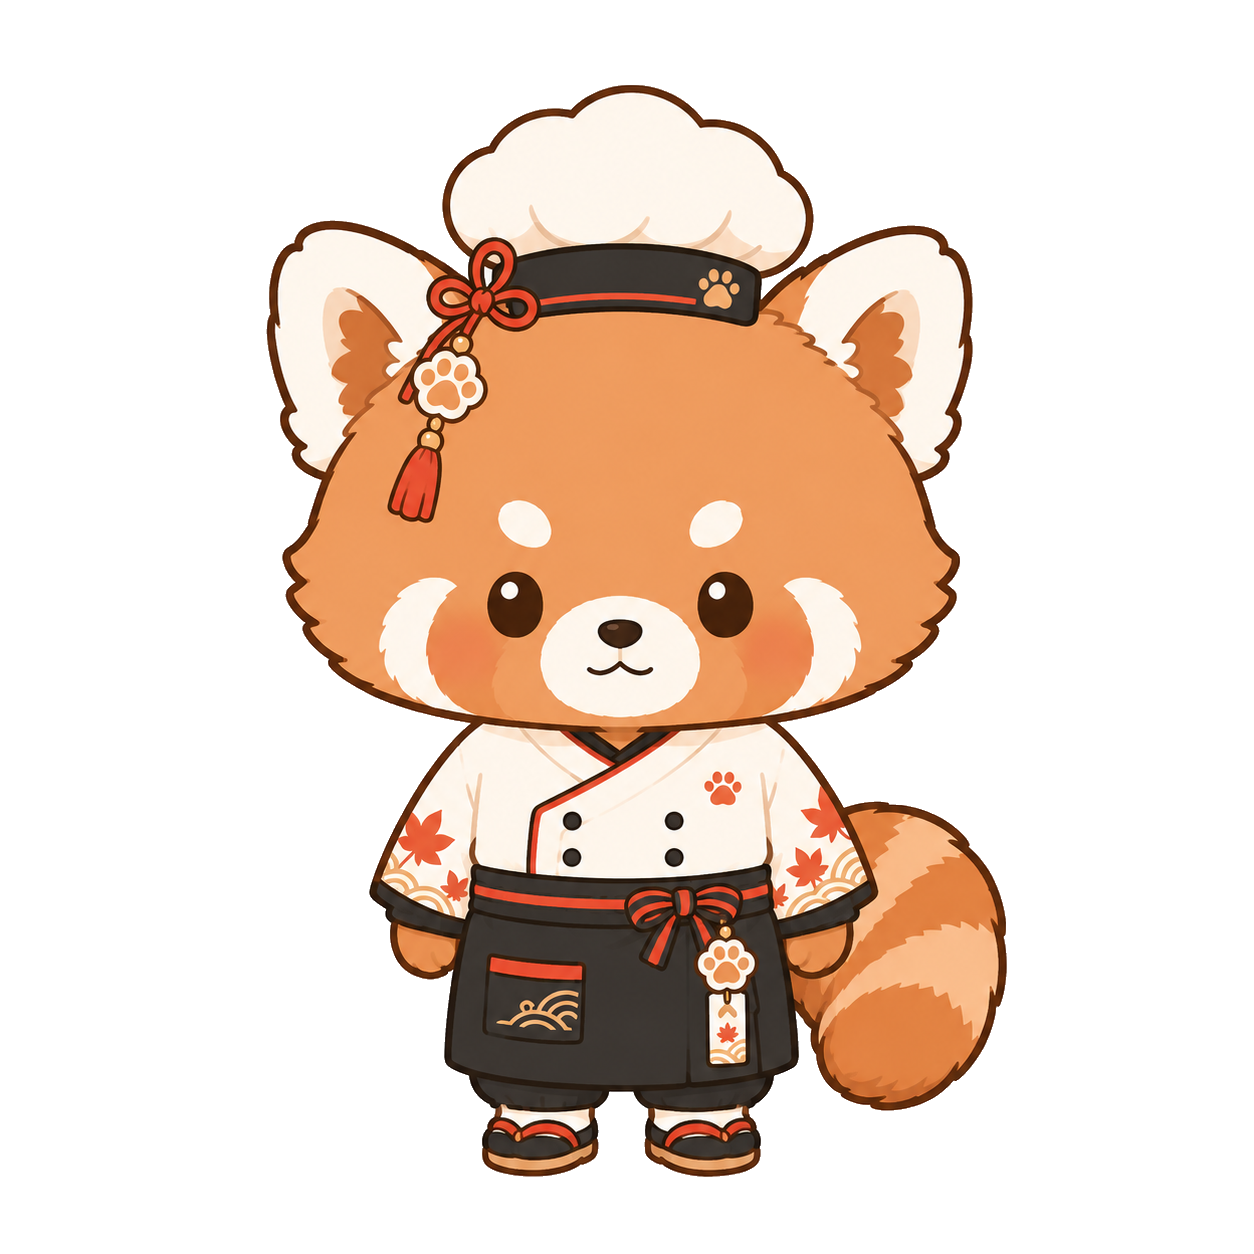
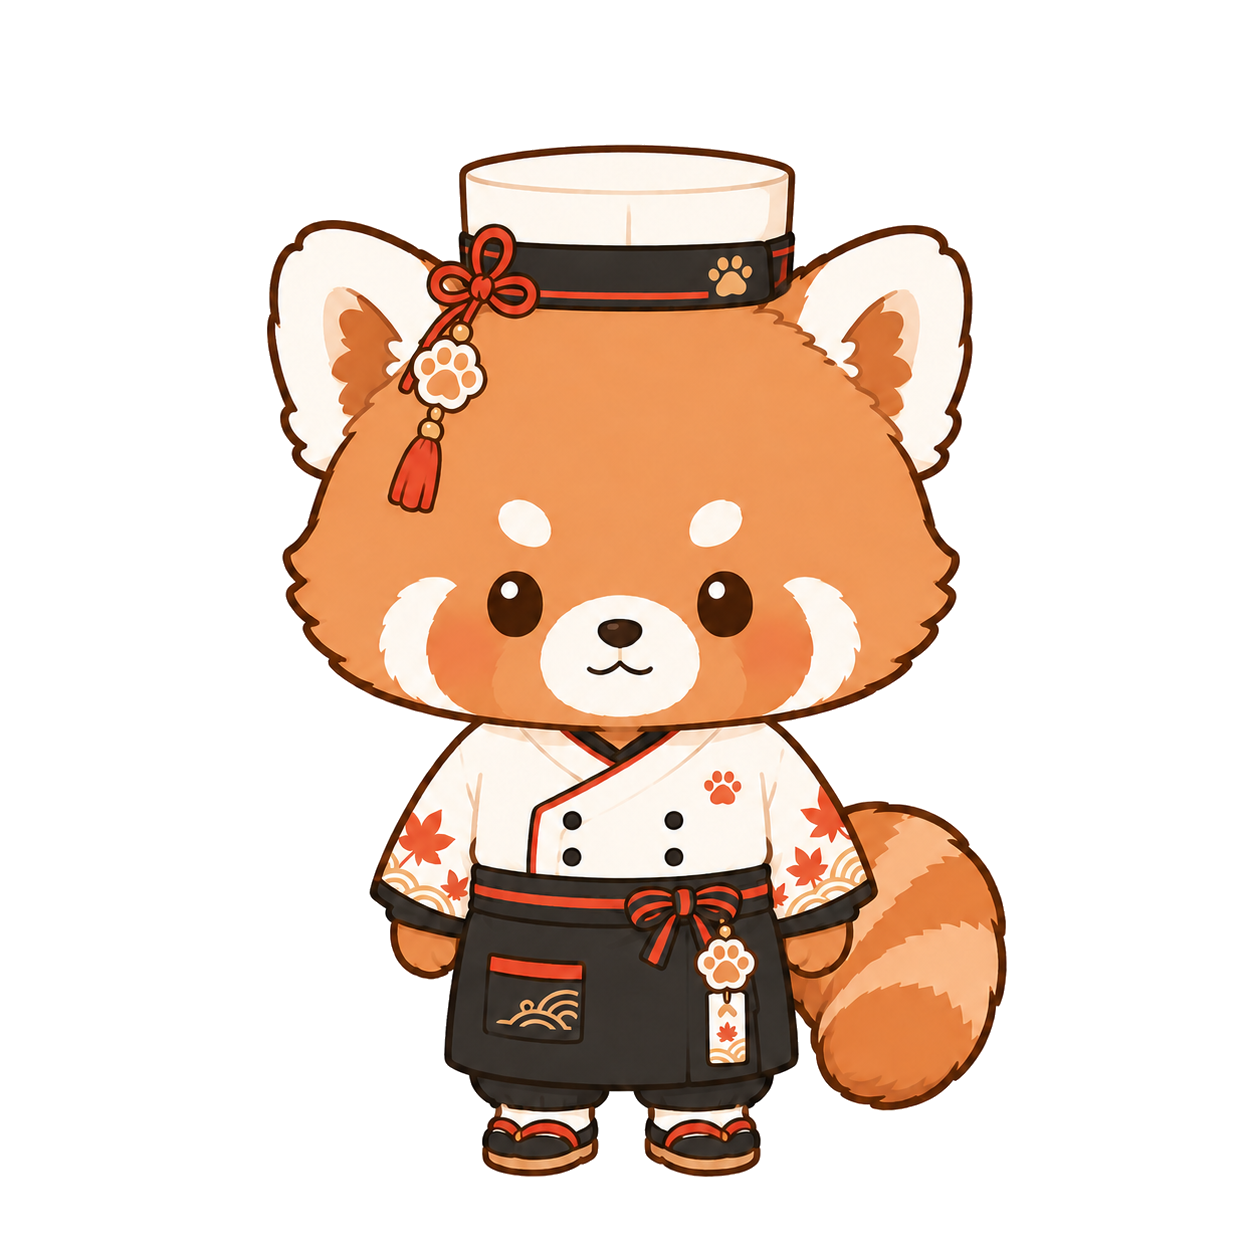
feat(aki): new chef base art, Relax wardrobe skin, badge art + splash swap
- Aki base art (cocoa.png) = new red-panda chef (flat-top hat), transparent bg
- Restore the Relax wardrobe skin (outfit_cocoa_relax, 10000 coins) with the
  brown-haori kimono art; classic renamed back to "Classic"; kimono-walk lore
  moved to skinLores.cocoa_relax, new chef-kitchen lore authored for
  cocoa_classic + relax shop desc in all 6 languages
- Fix: wardrobe unlock popup converted from a native <Modal> to an in-sheet
  overlay — iOS silently refuses to present a third stacked modal (screen →
  wardrobe sheet → popup), so buying any locked skin from the wardrobe did
  nothing
- New circular recipe badges: Sakura Mochi (Aki with mochi) + Pudding
  (pudding-badge.png, replaces pudding-finished references)
- Loading splash: retire loading13 (old puffy hat), add loading14 (same scene,
  new flat-top hat)
- figure-calibration regenerated (new classic metrics + companion_cocoa/relax)

diff --git a/src/lib/companion-utils.ts b/src/lib/companion-utils.ts
@@ -183,7 +183,8 @@ export function getEffectiveBunSkinId(
 // companion id (`shop:<itemId>`). The first entry is the default look.
 export const COMPANION_SKINS: Record<string, BunSkin[]> = {
   'shop:companion_cocoa': [
-    { id: 'classic', loreKey: 'cocoa_classic', name: 'Relax', emoji: '', image: require('@/assets/images/cocoa/cocoa.png'), shopItemId: null, lore: "Cocoa liked to walk where old wood met red leaves. In the traditional town, the streets were lined with quiet shops, stone paths, and wooden gates worn smooth by time. Autumn had already settled over everything, and the maple leaves drifted lazily past rooftops and into garden ponds. Cocoa walked with no hurry at all, hands tucked into the folds of his kimono, as if he and the season had agreed to move at the same slow pace.\n\nHe stopped wherever the air invited him. Sometimes it was under a tree shedding gold onto the path. Sometimes it was beside a tea house with steam curling from the doorway. He listened to the rustle of leaves, the distant murmur of people, the soft clack of sandals on stone. Nothing dramatic happened on those walks, and that was exactly why he loved them. In Cocoa's company, autumn was not an event. It was a long exhale." },
+    { id: 'classic', loreKey: 'cocoa_classic', name: 'Classic', emoji: '', image: require('@/assets/images/cocoa/cocoa.png'), shopItemId: null, lore: "In the small kitchen behind the bakery, Cocoa tied his apron strings the way other people open a favorite book — slowly, and with full attention. Steam rose from the rice pot, syrup thickened at the back of the stove, and the morning settled into its familiar rhythm. He worked without hurry, shaping each sweet with careful paws, as if the recipe were not a list of steps but a conversation he had been having for years.\n\nCustomers rarely saw him, yet they tasted his calm in every bite. The mochi wrapped just so, the tea poured at exactly the right warmth, the plate set down without a sound. When the last tray was finished, Cocoa would untie his apron, pour the day's first cup of tea for himself, and stand in the doorway to watch the leaves drift past the alley. The kitchen went quiet again. To Cocoa, that hush was the finest part of the recipe." },
+    { id: 'relax', loreKey: 'cocoa_relax', name: 'Relax', emoji: '', image: require('@/assets/images/cocoa/cocoa-relax.png'), shopItemId: 'outfit_cocoa_relax', lore: "Cocoa liked to walk where old wood met red leaves. In the traditional town, the streets were lined with quiet shops, stone paths, and wooden gates worn smooth by time. Autumn had already settled over everything, and the maple leaves drifted lazily past rooftops and into garden ponds. Cocoa walked with no hurry at all, hands tucked into the folds of his kimono, as if he and the season had agreed to move at the same slow pace.\n\nHe stopped wherever the air invited him. Sometimes it was under a tree shedding gold onto the path. Sometimes it was beside a tea house with steam curling from the doorway. He listened to the rustle of leaves, the distant murmur of people, the soft clack of sandals on stone. Nothing dramatic happened on those walks, and that was exactly why he loved them. In Cocoa's company, autumn was not an event. It was a long exhale." },
     { id: 'demon', loreKey: 'cocoa_demon', name: 'Demon', emoji: '', image: require('@/assets/images/cocoa/cocoa-demon.png'), shopItemId: 'outfit_cocoa_demon', lore: "The fortress on the hill belonged to a demon so feared that travelers lowered their eyes when they passed beneath its shadow. They spoke of dark horns, black wings, and a long coat that swept the floor like smoke. They said the demon lord watched from the highest tower and that no one foolish enough to wander near ever returned unchanged. What they did not know was that Cocoa spent most evenings reading by candlelight and feeding stray creatures who came scratching softly at the gate.\n\nOne winter, a child from the village got lost in the forest below the fortress. Though the villagers trembled at the thought, it was Cocoa who found the child first, asleep beneath a frozen tree. He lifted the little one into his arms, wrapped him in his own heavy coat, and carried him home through the snow. By sunrise, the village had learned the truth they had been too frightened to imagine: the feared demon was kind. Cocoa never bothered to correct the rumors after that. He simply returned to his quiet tower, calm as ever, letting his wings cast shadows while his heart remained warm." },
   ],
   'shop:companion_tira': [

diff --git a/src/app/companion-gallery.tsx b/src/app/companion-gallery.tsx
@@ -609,19 +609,14 @@ function GalleryContent() {
               </View>
             </View>
           )}
-        </View>
-      </Modal>
-
-      {/* Unlock popup — buy the exact locked companion / skin in place. */}
-      <Modal
-        visible={buyItem !== null}
-        transparent
-        animationType="fade"
-        onRequestClose={() => setBuyItem(null)}>
-        <Pressable style={styles.buyBackdrop} onPress={() => setBuyItem(null)}>
-          <Pressable style={styles.buyCard} onPress={(e) => e.stopPropagation?.()}>
-            {buyItem && (
-              <>
+          {/* Unlock popup — buy the exact locked skin in place. An inline overlay
+              like the lore popup, NOT a native <Modal>: iOS silently refuses to
+              present a third stacked modal (screen → wardrobe sheet → popup), so a
+              Modal here never appears. */}
+          {buyItem && (
+            <View style={styles.buyOverlay}>
+              <Pressable style={{ position: 'absolute', top: 0, left: 0, right: 0, bottom: 0 }} onPress={() => setBuyItem(null)} />
+              <View style={styles.buyCard}>
                 <Text style={styles.buyTitle}>{t('gallery.unlockTitle', { name: buyItem.name })}</Text>
                 {buyItem.image && (
                   <Image source={buyItem.image} style={styles.buyImage} contentFit="contain" />
@@ -652,10 +647,10 @@ function GalleryContent() {
                 <Pressable style={styles.buyCancel} onPress={() => setBuyItem(null)}>
                   <Text style={styles.buyCancelText}>{t('gallery.maybeLater')}</Text>
                 </Pressable>
-              </>
-            )}
-          </Pressable>
-        </Pressable>
+              </View>
+            </View>
+          )}
+        </View>
       </Modal>
 
       {/* Matched-room buy popup — purchase the outfit's paired room (background +
@@ -1079,6 +1074,14 @@ const makeStyles = (s: number, contentWidth: number) => StyleSheet.create({
     alignItems: 'center',
     justifyContent: 'center',
     padding: 24 * s,
+  },
+  // In-sheet variant of buyBackdrop — absolute overlay inside the wardrobe modal
+  // (a native <Modal> can't present at this depth; see the unlock popup comment).
+  buyOverlay: {
+    position: 'absolute', top: 0, left: 0, right: 0, bottom: 0, zIndex: 100,
+    backgroundColor: 'rgba(91,58,46,0.45)',
+    alignItems: 'center', justifyContent: 'center', padding: 24 * s,
+    borderRadius: 28 * s,
   },
   buyCard: {
     width: '100%',

diff --git a/src/constants/figure-calibration.ts b/src/constants/figure-calibration.ts
@@ -13,8 +13,9 @@ export const FIGURE_METRICS: Record<string, { fill: number; pad: number }> = {
   'companion_bunny/classic': { fill: 0.8939, pad: 0.0502 },
   'companion_bunny/jiraikei': { fill: 0.8190, pad: 0.0750 },
   'companion_bunny/palace': { fill: 0.9370, pad: 0.0407 },
-  'companion_cocoa/classic': { fill: 0.8708, pad: 0.0614 },
+  'companion_cocoa/classic': { fill: 0.8238, pad: 0.0614 },
   'companion_cocoa/demon': { fill: 0.8118, pad: 0.0758 },
+  'companion_cocoa/relax': { fill: 0.7783, pad: 0.0901 },
   'companion_honey/champion': { fill: 0.8325, pad: 0.0845 },
   'companion_honey/classic': { fill: 0.9537, pad: 0.0255 },
   'companion_honey/zzz': { fill: 0.8644, pad: 0.0526 },

diff --git a/src/app/session-complete.tsx b/src/app/session-complete.tsx
@@ -23,7 +23,7 @@ const BUN_FINISHED = require('@/assets/images/bun/bun-finished.png');
 const FINISH_IMG: Record<string, number> = {
   'strawberry-shortcake': require('@/assets/images/cake/strawberry-badge.png'),
   'sakura-mochi': require('@/assets/images/cake/sakura-badge.png'),
-  pudding: require('@/assets/images/cake/pudding-finished.png'),
+  pudding: require('@/assets/images/cake/pudding-badge.png'),
   'matcha-crepe': require('@/assets/images/cake/matcha-badge.png'),
   'berry-croissant': require('@/assets/images/cake/croissant-badge.png'),
 };

diff --git a/src/constants/shop-data.ts b/src/constants/shop-data.ts
@@ -168,6 +168,15 @@ export const SHOP_ITEMS: ShopItem[] = [
     image: require('@/assets/images/cocoa/cocoa-demon.png'),
   },
   {
+    id: 'outfit_cocoa_relax',
+    name: 'Relax',
+    emoji: '',
+    description: "A warm brown haori for slow autumn strolls, with a stray maple leaf resting on his head. Wear it from Aki's Wardrobe.",
+    price: 10000,
+    category: 'outfits',
+    image: require('@/assets/images/cocoa/cocoa-relax.png'),
+  },
+  {
     id: 'outfit_tira_chocomint',
     name: 'Choco Mint Tira',
     emoji: '',

diff --git a/src/app/_layout.tsx b/src/app/_layout.tsx
@@ -41,7 +41,7 @@ const LOADING_IMGS = [
   require('@/assets/images/home/loading11.png'),
   require('@/assets/images/home/loading8.png'),
   require('@/assets/images/home/loading9.png'),
-  require('@/assets/images/home/loading13.png'),
+  require('@/assets/images/home/loading14.png'),
 ];
 
 // Index-aligned with LOADING_IMGS: true where the art's bottom (under the label)

diff --git a/src/app/food-gallery.tsx b/src/app/food-gallery.tsx
@@ -42,7 +42,7 @@ export const FOOD_ITEMS: FoodItem[] = [
     image: require('@/assets/images/cake/pudding.png'),
     requiresItem: 'recipe_pudding',
     price: 5000,
-    madeBadge: require('@/assets/images/cake/pudding-finished.png'),
+    madeBadge: require('@/assets/images/cake/pudding-badge.png'),
     owner: 'Miel',
   },
   {
